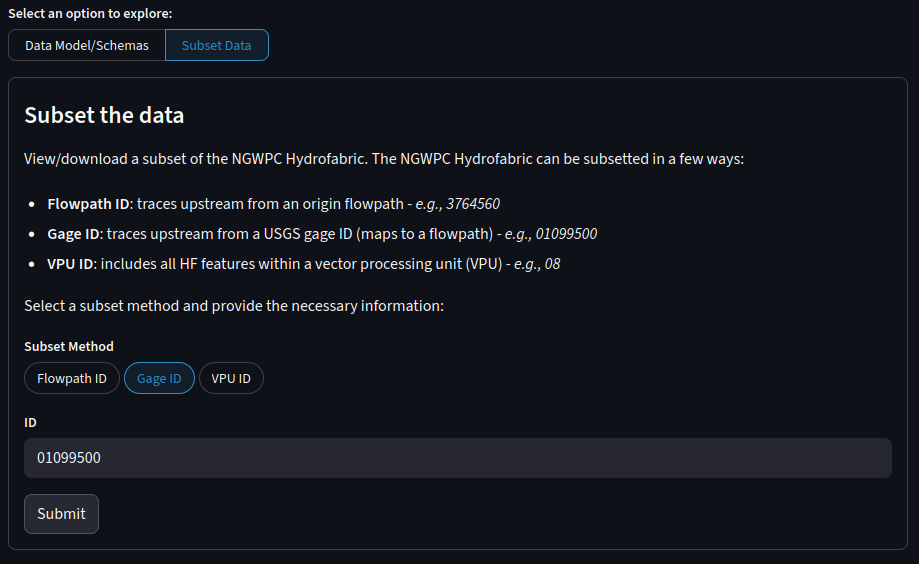
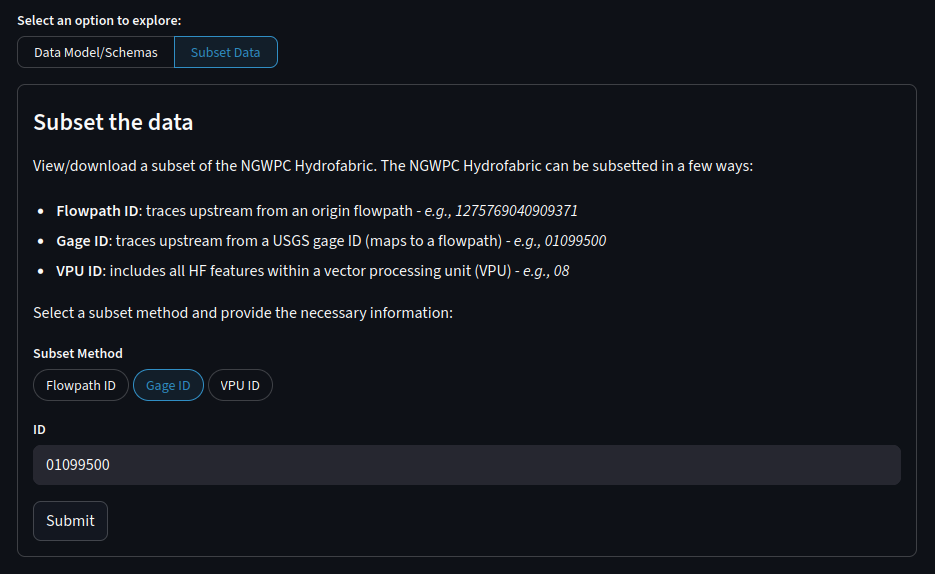
NGWPC-11670 - Update dashboard docs

diff --git a/app/streamlit/tooltips.py b/app/streamlit/tooltips.py
@@ -79,7 +79,7 @@ domain_tooltip = textwrap.dedent("""\
 """)
 
 hf_subset_options_explanation = textwrap.dedent("""\
-    - **Flowpath ID**: traces upstream from an origin flowpath - *e.g., 3764560*
+    - **Flowpath ID**: traces upstream from an origin flowpath - *e.g., 1275769040909371*
     - **Gage ID**: traces upstream from a USGS gage ID (maps to a flowpath) - *e.g., 01099500*
     - **VPU ID**: includes all HF features within a vector processing unit (VPU) - *e.g., 08*
 """)

diff --git a/docs/dashboard-docs/running.md b/docs/dashboard-docs/running.md
@@ -4,15 +4,15 @@ You can run the dashboard either locally or against the AWS Glue catalog.
 
 ## Requirements
 
-- Python (all dependencies managed through UV)
+- Python v3.11 - v3.12.8 (all dependencies managed through UV)
 - The Icefabric repo cloned locally
 - AWS credentials in the project's `.env` file (only needed when using Glue with test catalog)
 - AWS credentials in the project's `.prod.env` file (only needed when using Glue with prod (OE) catalog)
 - Streamlit (installed automatically via project dependencies)
-- Iceberg catalog available:
-  - Either AWS Glue
-  - Or local SQLite catalog
-- S3 Icechunk catalog available (no local option yet)
+- Iceberg catalog available in one of either formats:
+    - AWS Glue
+    - SQLite catalog (local)
+- S3 Icechunk catalog available
 
 ## Getting Started
 
@@ -25,7 +25,7 @@ source .venv/bin/activate
 
 ## Running Locally
 
-To run the dashboard locally, ensure your `.env` file in your project root has the right credentials (`test`), then run the following:
+To run the dashboard locally, ensure your `.env` file in your project root has the right credentials if running with AWS glue catalog, then run the following:
 
 ```sh
 uv run streamlit run app/streamlit/streamlit.py
@@ -42,29 +42,26 @@ uv run streamlit run app/streamlit/streamlit.py deploy-env=test
 uv run streamlit run app/streamlit/streamlit.py deploy-env=prod
 ```
 
-### Running the Dashboard with a local Iceberg catalog (Advanced Use)
+### Running the Dashboard with a local catalog/store
 
-To run the dashboard locally against a local catalog, the catalog must first be exported from glue. You need to run the build script for the 'NHF', 'RAS XS' and 'CONUS Reference' namespaces, as these are the only necessary catalog namespaces for the dashboard to function. Ensure your `.env` file in your project root has the right credentials (`test`), then run the following:
+To run the dashboard locally against a local Iceberg catalog and local Icechunk store, there's a shell script (`docker/deploy_local.sh`) to do so. It deploys the icefabric API and dashboard using a local catalog and icechunk store extracted from an S3 archive. The script automates everything from downloading the S3 archive, and extracting it locally, and spinning up the docker deployment.
 
-```sh
-uv python tools/iceberg/export_catalog.py --namespace nhf
-uv python tools/iceberg/export_catalog.py --namespace ras_xs
-uv python tools/iceberg/export_catalog.py --namespace conus_reference
-```
-
-Then, to run the dashboard locally using this newly exported SQL backend, add a `deploy-env` flag to the run command. The flag should be formatted as `deploy-env=local` to use the local SQL catalog. Run the following:
+Ensure your `.env` file in your project root has the right credentials (`test`), then run the following from the repo root:
 
 ```sh
-# Local deploy
-uv run streamlit run app/streamlit/streamlit.py deploy-env=local
+./docker/deploy_local.sh s3://edfs-data/tmp/icefabric_full_backup.tar
 ```
+
+You can optionally add your preferred AWS profile name (`aws_profile` is the arg name) argument to the end of the command, as well.
+
+For further information or troubleshooting, please reference [the script](https://github.com/NGWPC/icefabric/blob/main/docker/deploy_local.sh).
 
 > [!IMPORTANT]
-> At this time, the 'Streamflow Observations' dashboard page requires S3 access, as this page uses Icechunk (not Iceberg) to store and retrieve data. The Dashboard will still spin up as normal, and function fully, except the 'Streamflow Observations' dashboard page will not function (unless you have S3 credentials in your `.env` file.)
+> The archive pulled from S3 is quite large. You will need ~100GB of free diskspace in the location where you are writing the archive. The script defaults to the root temp directory (`/tmp`)
 
 ## Building/deploying the Dashboard through Docker
 
-To run just Dashboard locally with Docker, ensure your `.env` file in your project root has the right credentials (`test`) (make sure to have your prod credentials in a `.prod.env` if deploying with the production env/catalog), then run the `compose.sh` wrapper script to spin up the dashboard:
+To run just the Dashboard locally with Docker, ensure your `.env` file in your project root has the right credentials (`test`) (make sure to have your prod credentials in a `.prod.env` if deploying with the production env/catalog), then run the `compose.sh` wrapper script to spin up the dashboard:
 
 ```sh
 # Build

diff --git a/docs/dashboard-docs/pages/ras_xs.md b/docs/dashboard-docs/pages/ras_xs.md
@@ -6,8 +6,8 @@ The 'RAS XS' page provides tools for exploring River Analysis System (RAS) cross
 
 - View cross-sectional datasets alongside associated flowpaths and divides
 - Subset data using:
-  - A single flowpath ID
-  - A user-drawn geographic bounding box on the Leaflet map
+    - A single flowpath ID
+    - A user-drawn geographic bounding box on the Leaflet map
 - View results tabularly and geospatially
 - Download the subset as a GeoPackage
 
@@ -16,7 +16,7 @@ The 'RAS XS' page provides tools for exploring River Analysis System (RAS) cross
 You begin by deciding which cross-sectional data domain to pull from. The RAS XS dataset is formatted in two ways:
 
 - **Conflated** — This is the full collection of HEC-RAS data. Each cross-sectional value is mapped to the nearest hydrofabric flowpath. Thus, most flowpaths will have many cross-sectional values along the lengths of their geometries.
-- **Representative** — This is derived from the conflated dataset; each value is the median, representative, cross-section of a specific hydrofabric flowpath. So, each flowpath will have one associated representative cross-sectional value. In particular, this dataset is used as training/testing inputs for RiverML.
+- **Representative** — This is derived from the conflated dataset; each value is the median, representative, cross-section of a specific hydrofabric flowpath. So, each flowpath will have one associated representative cross-sectional value. In particular, this dataset is used as training/testing inputs for [RiverML](https://github.com/NOAA-OWP/predict-riverML).
 
 ![RAS XS Domains](../../img/dashboard/ras_xs_domains.png)
 
@@ -51,6 +51,7 @@ Enter the bounding box manually, by supplying min/max lat/lon coordinates (four 
 The dashboard will fetch the data requested and generate a map to view the cross-sections.
 
 The map displays the following as layers:
+
 - Flowpaths
 - Divides
 - Cross-Sectional Lines

diff --git a/docs/dashboard-docs/overview.md b/docs/dashboard-docs/overview.md
@@ -4,25 +4,25 @@ The Icefabric Dashboard is a Streamlit-based web application that makes it easy 
 
 ## Key Features
 
-- **Explore hydrologic datasets**
-  Browse NGWPC Hydrofabric network components (flowpaths, nexuses, divides, waterbodies, and more), as well as RAS XS data.
+- **Explore hydrologic datasets:**
+  Browse NGWPC Hydrofabric network components (flowpaths, nexuses, divides, waterbodies, and more), as well as RAS XS (HEC-RAS Cross-Sectional) data.
 
-- **Subset the Hydrofabric**
+- **Subset the Hydrofabric:**
   Provide a flowpath ID or USGS gage ID and let the dashboard trace upstream automatically.
 
-- **Visualize geospatial data**
+- **Visualize geospatial data:**
   View subsets on interactive Leaflet maps. Draw bounding boxes to explore the RAS XS data in specific user-defined locations.
 
-- **Interact with streamflow records**
+- **Interact with streamflow records:**
   Access USGS streamflow time series and zoomable hydrographs.
 
-- **Download data**
+- **Download data:**
   Export subsets as GeoPackage files.
 
-- **Supports multiple catalogs**
+- **Supports multiple catalogs:**
   Choose between:
-  - AWS Glue Iceberg catalog
-  - Local SQLite Iceberg catalog for offline work
+    - AWS Glue Iceberg catalog
+    - Local SQLite Iceberg catalog for offline work
 
 ## System Components
 

diff --git a/docs/dashboard-docs/index.md b/docs/dashboard-docs/index.md
@@ -1,11 +1,12 @@
 # Icefabric Dashboard Documentation
 
 Welcome to the Icefabric Dashboard documentation.
-The dashboard is an interactive Streamlit application designed to explore, subset, and visualize hydrologic datasets stored in the Icefabric ecosystem.
+The dashboard is an interactive [Streamlit](https://streamlit.io/) application designed to explore, subset, and visualize hydrologic datasets stored in the Icefabric ecosystem.
 
 The dashboard provides:
+
 - Simple access to NGWPC Hydrofabric network data
-- Tools to explore RAS Cross‑Sectional datasets
+- Tools to explore HEC-RAS Cross‑Sectional datasets
 - Streamflow observation visualizations and hydrograph interactions
 - Downloadable datasets for local analysis
 - Options to connect either the AWS Glue Iceberg catalog or a local SQLite-backed catalog

diff --git a/docs/dashboard-docs/pages/ngwpc_hydrofabric.md b/docs/dashboard-docs/pages/ngwpc_hydrofabric.md
@@ -47,6 +47,7 @@ The Hydrofabric will then be subset according to the ID provided. If a flowpath 
 ### Dataframe Results
 
 A collection of tabular Streamlit dataframes will be displayed after the backend logic is complete. All NGWPC Hydrofabric components are included. Among the tabular data:
+
 - Flowpaths
 - Nexuses
 - Divides
@@ -72,6 +73,7 @@ A “Download as GeoPackage” button appears below the data, allowing users to 
 Also, the dashboard will generate an interactive map to view the subset.
 
 The interactive Leaflet map displays all NGWPC Hydrofabric components (only whose data includes geometry information):
+
 - Flowpath/Virtual Flowpath lines
 - Divide polygons
 - Nexus/Virtual Nexus points

diff --git a/docs/index.md b/docs/index.md
@@ -57,3 +57,9 @@ The `tests` folder is for all testing data so the global confest can pick it up.
 To run tests, run `pytest -s` from project root.
 
 To run the subsetter tests, run `pytest --run-slow` as these tests take some time. Otherwise, they will be skipped
+
+### Streamlit Dashboard
+
+Also included alongisde the API is the Icefabric Dashboard. The dashboard is a Streamlit-based frontend that works separately from the API. It allows users to explore, subset, and visualize hydrologic datasets stored in the Icefabric ecosystem.
+
+Further info can be found [here](./dashboard-docs/index.md).

diff --git a/docs/dashboard-docs/pages/streamflow_observations.md b/docs/dashboard-docs/pages/streamflow_observations.md
@@ -5,8 +5,9 @@ The 'Streamflow Observations' page allows users to explore hourly streamflow rec
 ## Features
 
 For each USGS gage with streamflow data:
+
 - Retrieve hourly discharge time series (q_cms)
-- View a static full-range hydrograph of that gage
+- View a static full-range hydrograph of the gage
 - Interactively explore selected years and months using a zoom/pan hydrograph
 - View a map of the gage location and its corresponding flowpath/divide
 
